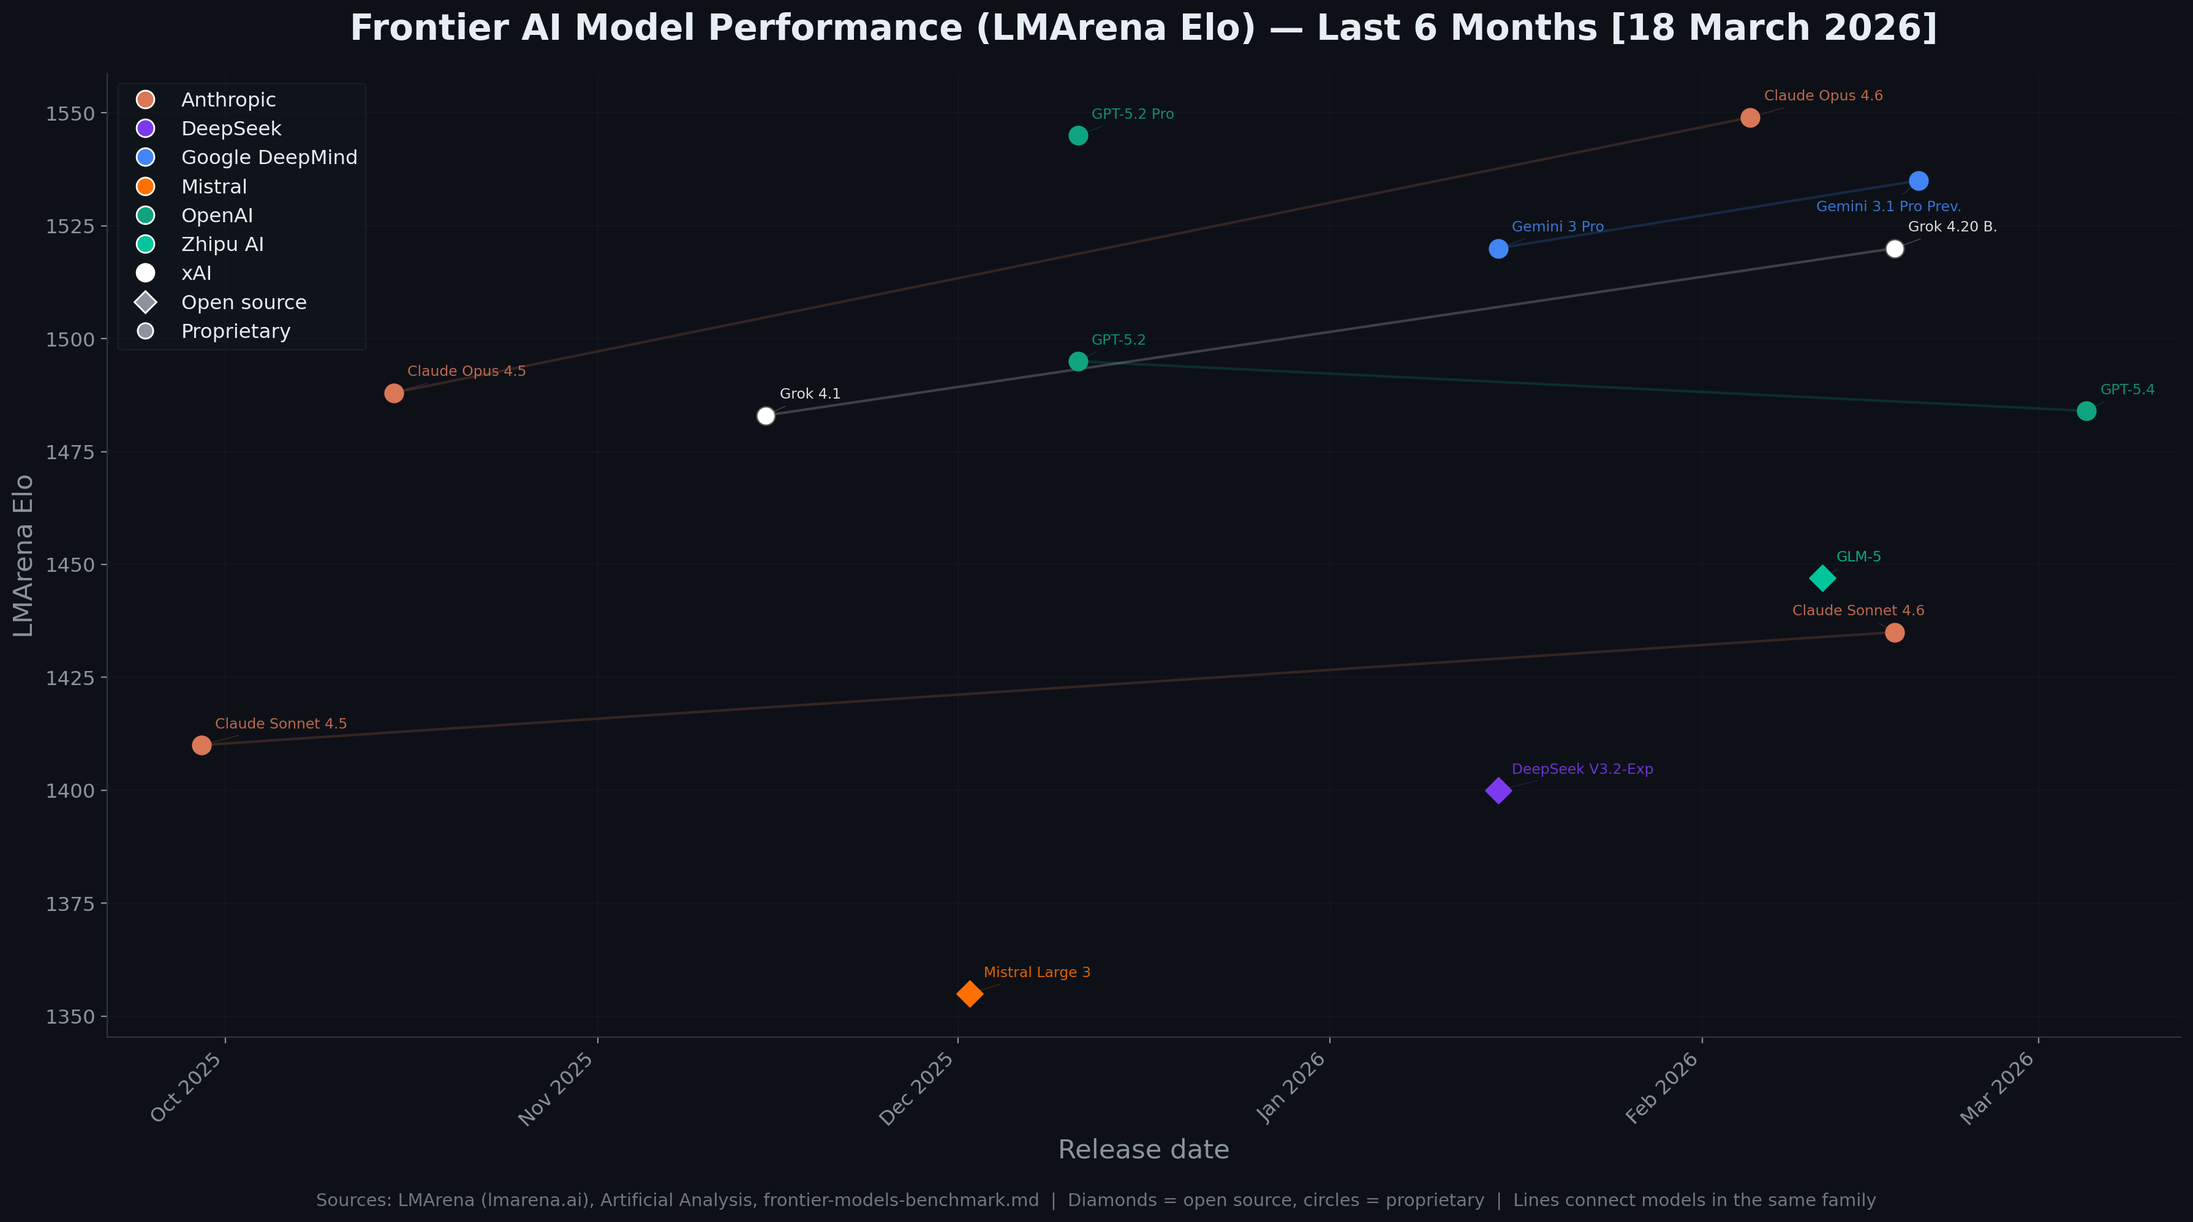
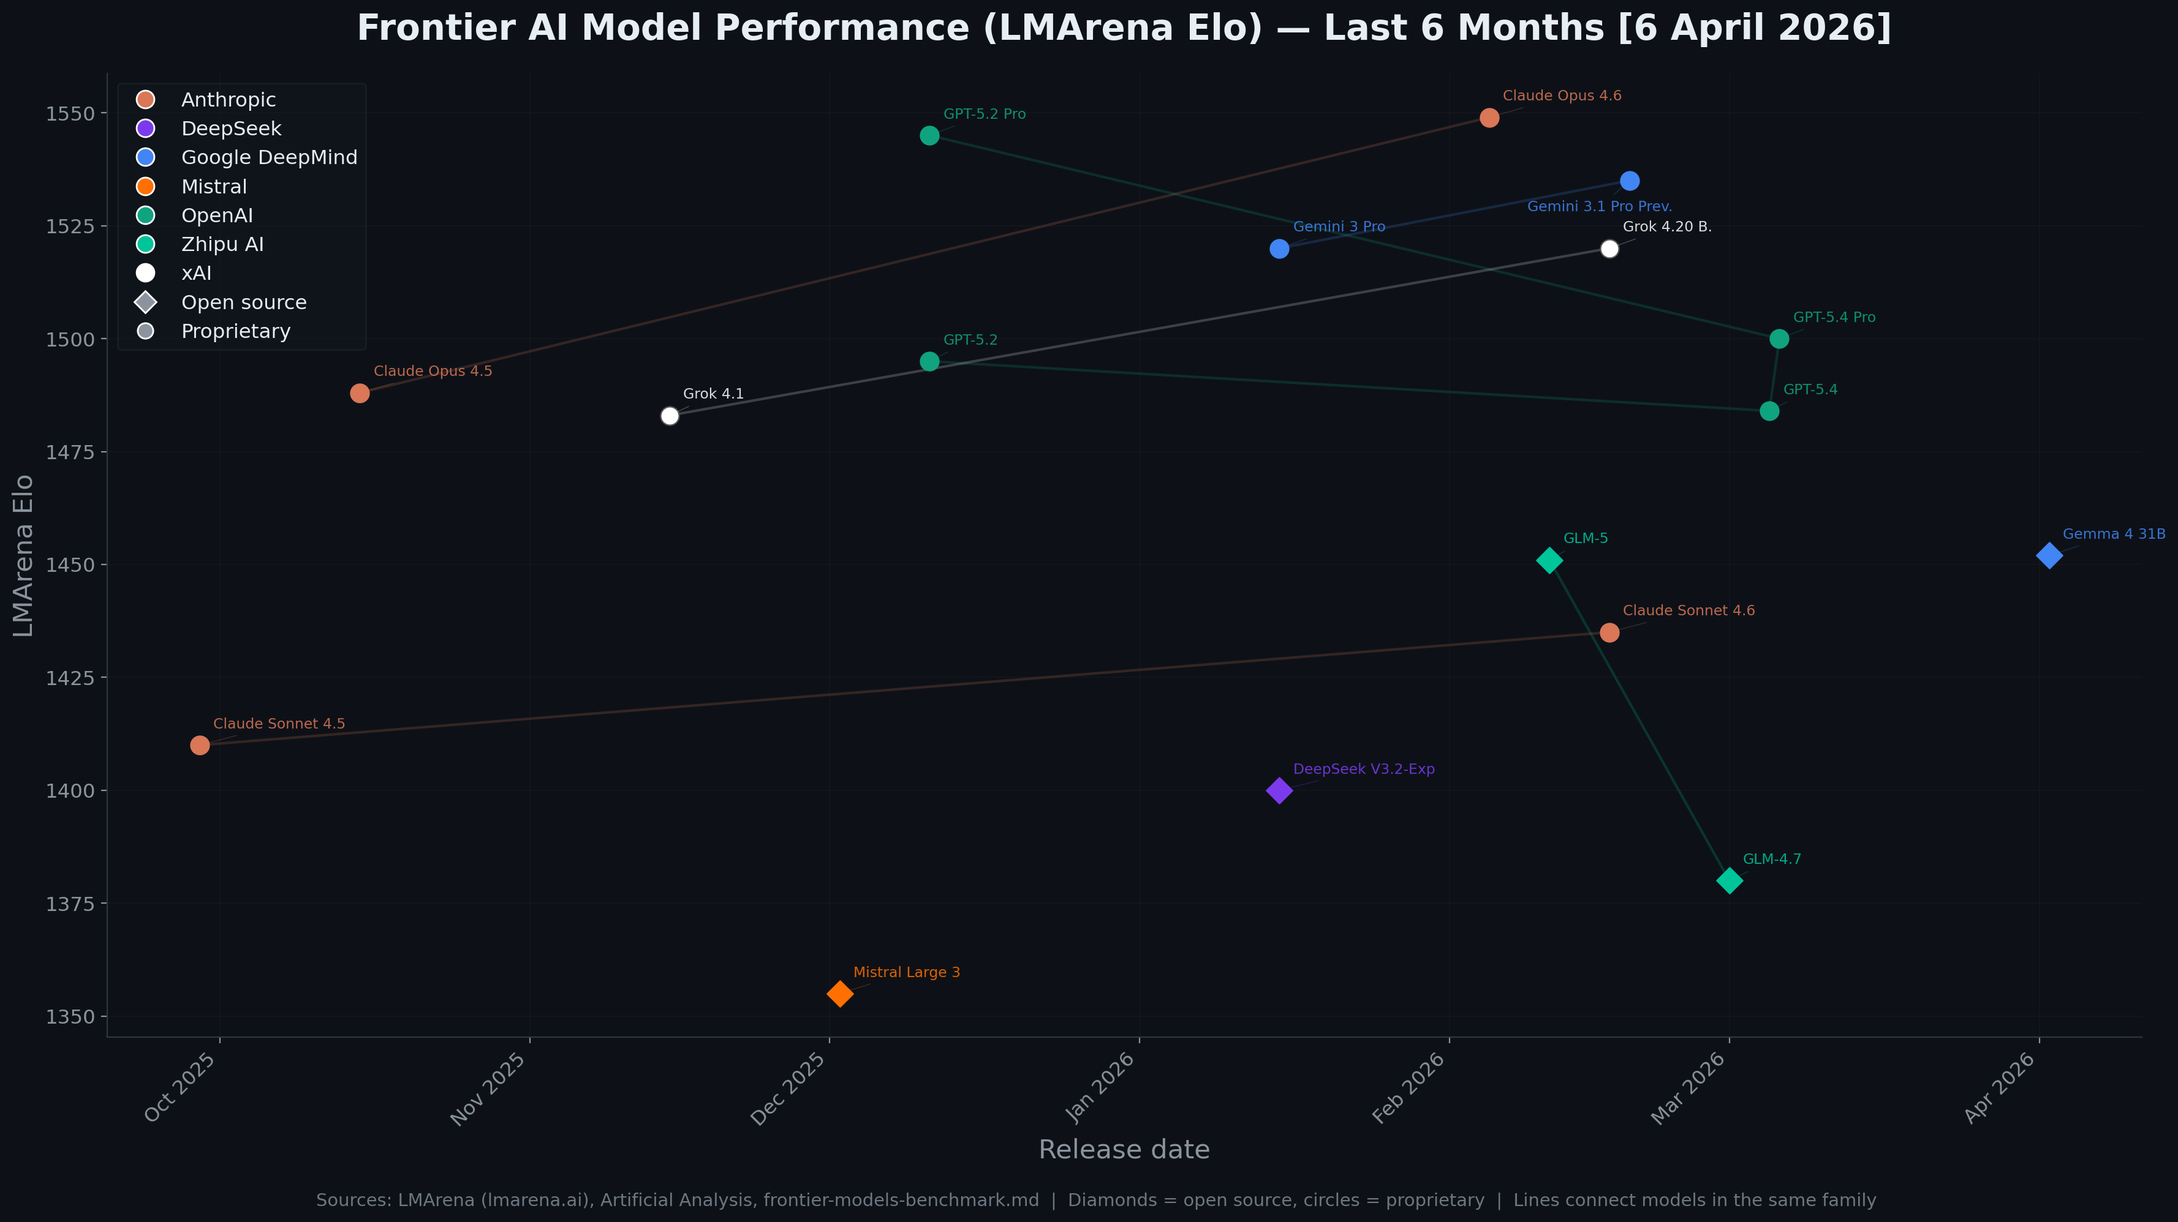
Update frontier models benchmark to April 2026
Add GPT-5.4 Pro (SWE-bench Verified 86%, BenchLM #1), GLM-4.7
(coding-focused with thinking), Gemma 4 31B (Apache 2.0, LMArena
~1452). Update GLM-5 Elo to 1451. Regenerate Elo timeline plots.

diff --git a/frontier-models-benchmark.md b/frontier-models-benchmark.md
@@ -3,8 +3,8 @@
 | Field | Value |
 |-------|-------|
 | Created | 2026-03-17 |
-| Last Updated | 2026-03-17 |
-| Version | 2.1 |
+| Last Updated | 2026-04-06 |
+| Version | 2.2 |
 
 ---
 
@@ -22,7 +22,7 @@
 
 ## Overview
 
-This article ranks current best-in-class frontier AI models across nine capability domains, synthesised from live benchmark data pulled on 17 March 2026. Sources include LMArena (Chatbot Arena), SWE-Bench Verified/Pro, Terminal-Bench 2.0/Hard, Aider Polyglot, BFCL V4, MMMU-Pro, Artificial Analysis, and the OpenVLM/Open ASR leaderboards.
+This article ranks current best-in-class frontier AI models across nine capability domains, synthesised from live benchmark data pulled on 6 April 2026. Sources include LMArena (Arena AI), SWE-Bench Verified/Pro, Terminal-Bench 2.0/Hard, Aider Polyglot, BFCL V4, MMMU-Pro, Artificial Analysis, BenchLM, and the OpenVLM/Open ASR leaderboards.
 
 Each model entry includes origin, release date, model lineage, licence, parameter count, context window, and throughput data where known.
 
@@ -38,14 +38,15 @@ Ranked by LMArena (Chatbot Arena) Elo ratings from human blind-preference votes,
 | 4 | **Gemini 3.1 Pro Preview** | Google DeepMind | 2026-02-19 | Gemini 3 Pro | Incumbent | Proprietary | Undisclosed (MoE) | 1M | ~110 | ~0.9 s |
 | 5 | **Grok 4.20 Beta** | xAI | 2026-02-17 | Grok 4.1 | Incumbent | Proprietary | ~500B (MoE, "small" variant) | 256K-2M | Unknown | Unknown |
 | 6 | **Gemini 3 Pro** | Google DeepMind | 2026-01 | Gemini 2.5 Pro | Gemini 3.1 Pro | Proprietary | Undisclosed (MoE) | 1M | ~80+ | ~1-3 s |
-| 7 | **GPT-5.4 High** | OpenAI | 2026-03-05 | GPT-5.3 Codex | Incumbent | Proprietary | Undisclosed | 1M | ~187 | ~1.2 s |
-| 8 | **GPT-5.4** | OpenAI | 2026-03-05 | GPT-5.3 Codex | Incumbent | Proprietary | Undisclosed | 1M | ~187 | ~1.2 s |
+| 7 | **GPT-5.4 Pro** | OpenAI | 2026-03-06 | GPT-5.3 Codex | Incumbent | Proprietary | Undisclosed | 1M | ~187 | ~1.2 s |
+| 8 | **GPT-5.4 High** | OpenAI | 2026-03-05 | GPT-5.3 Codex | GPT-5.4 Pro | Proprietary | Undisclosed | 1M | ~187 | ~1.2 s |
+| 9 | **GPT-5.4** | OpenAI | 2026-03-05 | GPT-5.3 Codex | GPT-5.4 Pro | Proprietary | Undisclosed | 1M | ~187 | ~1.2 s |
 
 **Key observations:**
-- Anthropic holds the top three Arena spots. Claude Opus 4.6 leads at Elo 1549 — roughly +30 over the nearest non-Anthropic model.
-- GPT-5.4 (released 5 March 2026) is the newest frontier model; Arena Elo is still stabilising but early data places it in the 1483-1485 range.
-- Grok 4.20 uses a novel 4-agent parallel architecture. The current release is a 500B "small" variant; the full model is still training. Provisional Arena Elo of 1505-1535 could reshuffle the top 5.
-- GLM-5 (Zhipu AI, Elo 1447) is the highest-ranked open-source model — see the [Open Source](#open-source) section.
+- Anthropic holds the top three Arena spots. Claude Opus 4.6 (thinking) leads at Elo ~1500 (BenchLM April 2026 snapshot) — roughly +17 over the nearest non-Anthropic model.
+- GPT-5.4 Pro (released 6 March 2026) is the newest frontier model and leads BenchLM's overall composite at 92/100 (#1 of 103 models evaluated). Arena Elo is still stabilising.
+- Grok 4.1 Thinking (codename: quasarflux) now holds #1 on the LMArena text-capability leaderboard at Elo 1483 (confirmed April 4, 2026). Grok 4.20's full model is still training; provisional Arena Elo of 1505-1535.
+- GLM-5 (Zhipu AI, Elo 1451) is the highest-ranked open-source model — see the [Open Source](#open-source) section.
 
 ## Agentic Coding
 
@@ -53,32 +54,37 @@ Composite ranking across SWE-Bench Verified, SWE-Bench Pro, Terminal-Bench 2.0, 
 
 | # | Model | Origin | Released | Predecessor | Successor | Licence | Params | Context | tok/s | TTFT |
 |---|-------|--------|----------|-------------|-----------|---------|--------|---------|-------|------|
-| 1 | **GPT-5.4** | OpenAI | 2026-03-05 | GPT-5.3 Codex | Incumbent | Proprietary | Undisclosed | 1M | ~187 | ~1.2 s |
-| 2 | **Claude Opus 4.6** | Anthropic | 2026-02-05 | Claude Opus 4.5 | Incumbent | Proprietary | Undisclosed | 1M (beta) | ~50-60 | ~2-5 s |
-| 3 | **Gemini 3.1 Pro** | Google DeepMind | 2026-02-19 | Gemini 3 Pro | Incumbent | Proprietary | Undisclosed (MoE) | 1M | ~110 | ~0.9 s |
-| 4 | **GPT-5.3 Codex** | OpenAI | 2026-02-05 | GPT-5.2 Codex | GPT-5.4 | Proprietary | Undisclosed | 400K | Unknown | Unknown |
+| 1 | **GPT-5.4 Pro** | OpenAI | 2026-03-06 | GPT-5.3 Codex | Incumbent | Proprietary | Undisclosed | 1M | ~187 | ~1.2 s |
+| 2 | **GPT-5.4** | OpenAI | 2026-03-05 | GPT-5.3 Codex | GPT-5.4 Pro | Proprietary | Undisclosed | 1M | ~187 | ~1.2 s |
+| 3 | **Claude Opus 4.6** | Anthropic | 2026-02-05 | Claude Opus 4.5 | Incumbent | Proprietary | Undisclosed | 1M (beta) | ~50-60 | ~2-5 s |
+| 4 | **Gemini 3.1 Pro** | Google DeepMind | 2026-02-19 | Gemini 3 Pro | Incumbent | Proprietary | Undisclosed (MoE) | 1M | ~110 | ~0.9 s |
 | 5 | **Claude Sonnet 4.6** | Anthropic | 2026-02-17 | Claude Sonnet 4.5 | Incumbent | Proprietary | Undisclosed | 1M (beta) | ~80-100 | ~1-3 s |
-| 6 | **Claude Opus 4.5** | Anthropic | 2025-10 | Claude Opus 4 | Claude Opus 4.6 | Proprietary | Undisclosed | 200K | ~50-60 | ~2-5 s |
+| 6 | **GPT-5.3 Codex** | OpenAI | 2026-02-05 | GPT-5.2 Codex | GPT-5.4 | Proprietary | Undisclosed | 400K | Unknown | Unknown |
 | 7 | **MiniMax M2.5** | MiniMax | Q1 2026 | MiniMax M2.1 | Incumbent | Open weights | 230B (MoE) | 204K | ~100 | Unknown |
-| 8 | **DeepSeek V3.2-Exp (Reasoner)** | DeepSeek | Q1 2026 | DeepSeek V3.1 | Incumbent | Open-source | 685B / 37B active (MoE) | 128K | Unknown | Unknown |
+| 8 | **GLM-4.7** | Zhipu AI | Q1 2026 | GLM-4.6 | Incumbent | Open-source | Undisclosed (MoE) | 128K | Unknown | Unknown |
+| 9 | **DeepSeek V3.2-Exp (Reasoner)** | DeepSeek | Q1 2026 | DeepSeek V3.1 | Incumbent | Open-source | 685B / 37B active (MoE) | 128K | Unknown | Unknown |
 
 **Benchmark scores (where available):**
 
 | Model | SWE-Bench Verified | SWE-Bench Pro | Terminal-Bench 2.0 | Terminal-Bench Hard | Aider Polyglot |
 |-------|-------------------|--------------|--------------------|--------------------|---------------|
+| GPT-5.4 Pro | 86.0% | — | — | — | — |
 | GPT-5.4 | — | 57.7% | — | 58% | — |
 | Claude Opus 4.6 | 80.8% | — | 74.7% | 53% | — |
 | Gemini 3.1 Pro | 80.6% | — | 78.4% | 54% | — |
-| GPT-5.3 Codex | — | 56.8% | 77.3% | 53% | — |
 | Claude Sonnet 4.6 | 79.6% | — | — | 49% | — |
+| GPT-5.3 Codex | — | 56.8% | 77.3% | 53% | — |
 | Claude Opus 4.5 | 80.9% | 45.9% | — | — | — |
 | MiniMax M2.5 | 80.2% | — | — | — | — |
+| GLM-4.7 | 73.8% | — | — | — | — |
 | DeepSeek V3.2-Exp | 73.0% | — | — | — | 74.2% |
 
 **Key observations:**
-- The top 5 models on SWE-Bench Verified are separated by just 1.3 points (79.6–80.9%). At this level, the agent scaffold/harness matters more than the model itself — scaffold choice causes a 22-point swing vs ~1 point from model selection.
+- **GPT-5.4 Pro is the new SWE-bench Verified leader at 86.0%** — a 5-point jump over the previous cluster of ~80-81% models. This is the first model to clearly break away from the pack on this benchmark.
+- The remaining top models on SWE-Bench Verified are still tightly clustered (79.6–80.9%). At this level, the agent scaffold/harness matters more than the model itself — scaffold choice causes a 22-point swing vs ~1 point from model selection.
 - GPT-5.4 leads on the harder benchmarks (SWE-Bench Pro 57.7%, Terminal-Bench Hard 58%) which test longer, more complex agentic tasks.
-- MiniMax M2.5 (80.2% SWE-Bench Verified) is the top open-weights coding model, ahead of GPT-5.2.
+- GLM-4.7 (Zhipu AI, 73.8% SWE-Bench Verified) is a new open-source coding contender with thinking capabilities, scoring 95.7% on AIME 2025 and 42.8% on Humanity's Last Exam.
+- MiniMax M2.5 (80.2% SWE-Bench Verified) remains the top open-weights model on that benchmark.
 - DeepSeek V3.2-Exp achieves 74.2% on Aider Polyglot at $1.30/run — roughly 22x cheaper than GPT-5.
 
 ## Tool Use
@@ -191,20 +197,23 @@ The top open-source models overall, ranked by a composite of Chatbot Arena Elo, 
 
 | # | Model | Origin | Released | Predecessor | Successor | Params (total / active) | Architecture | Context | Licence | Key Scores |
 |---|-------|--------|----------|-------------|-----------|------------------------|-------------|---------|---------|------------|
-| 1 | **GLM-5** | Zhipu AI | 2026-02-11 | GLM-4.5 (355B) | Incumbent | 744B / ~40B | MoE | 128K | Apache 2.0 | Arena Elo 1447, Quality Index 49.6, MMLU-Pro 89.7%, HumanEval 92.1% |
+| 1 | **GLM-5** | Zhipu AI | 2026-02-11 | GLM-4.5 (355B) | Incumbent | 744B / ~40B | MoE | 128K | Apache 2.0 | Arena Elo 1451, Quality Index 49.6, MMLU-Pro 89.7%, HumanEval 92.1% |
 | 2 | **DeepSeek V3.2** | DeepSeek | 2026-02-15 | DeepSeek V3.1 | Incumbent | 685B / 37B | MoE (DeepSeekMoE + MLA) | 128K | DeepSeek Licence | Quality Index 41.2, LiveCodeBench 86-90%, AIME 92%, SWE-Bench 72.8% |
 | 3 | **Kimi K2.5** | Moonshot AI | Q1 2026 | Kimi K2 | Incumbent | ~1T / undisclosed | MoE | 128K | Open weights (MIT) | Quality Index 46.7, LiveCodeBench 85%, AIME 96%, Tau2-bench #1 tool-use |
 | 4 | **MiniMax M2.5** | MiniMax | Q1 2026 | MiniMax M2.1 | Incumbent | 230B / undisclosed | MoE | 204K | Open weights | Quality Index 42.0, SWE-Bench Verified 80.2% (#1 open-weights coding) |
 | 5 | **MiMo-V2-Flash** | Xiaomi | 2025-12-16 | MiMo-V1 | Incumbent | 309B / 15B | MoE (hybrid attn + MTP) | 128K | Apache 2.0 | LiveCodeBench 87%, AIME 96%, ~150 tok/s |
 | 6 | **Qwen3-235B-A22B** | Alibaba | 2025-04-29 | Qwen 2.5-72B | Qwen 3.5 | 235B / 22B | MoE | 128K | Apache 2.0 | Hybrid thinking (fast/deep), 119 languages |
 | 7 | **Llama 4 Maverick** | Meta | 2025-04-05 | Llama 3.3 70B | Llama 4 Behemoth (pending) | 400B / 17B (128 experts) | MoE | 10M | Llama Community | Natively multimodal |
-| 8 | **Mistral Large 3** | Mistral AI | 2025-12-02 | Mistral Large 2 (123B) | Incumbent | 675B / 41B | MoE | 256K | Apache 2.0 | Multimodal, strong European compliance |
+| 8 | **Gemma 4 31B** | Google DeepMind | 2026-04-02 | Gemma 3 27B | Incumbent | 31B | Dense | 256K | Apache 2.0 | Arena Elo ~1452 (#3 open), multimodal (text/image/video/audio), native function calling |
+| 9 | **Mistral Large 3** | Mistral AI | 2025-12-02 | Mistral Large 2 (123B) | Incumbent | 675B / 41B | MoE | 256K | Apache 2.0 | Multimodal, strong European compliance |
 
 **Key observations:**
 - GLM-5 (Zhipu AI, 744B MoE) unseated DeepSeek in February 2026 as the top open-source model. Native support for 14+ Asian languages including Tamil, Hindi, and Telugu.
-- Every top open-source model uses MoE architecture. Dense models have been pushed out of the frontier tier.
+- **Gemma 4** (Google DeepMind, April 2, 2026) is the biggest new open-source entry. The 31B dense model ranks #3 among all open models on Arena AI's text leaderboard (Elo ~1452). Apache 2.0 licence — a significant shift from Gemma 3's more restrictive Gemma Licence. Four sizes: E2B (2.3B active), E4B (4B active), 26B MoE (4B active), 31B dense.
+- **GLM-4.7** (Zhipu AI) is a notable new coding-focused release with thinking capabilities: AIME 2025 95.7%, SWE-bench Verified 73.8%, HLE 42.8% (+12.4% over GLM-4.6).
+- Every top open-source model at the frontier tier uses MoE architecture (Gemma 4 31B dense is the exception, ranking via raw parameter density).
 - Apache 2.0 dominates licensing, with Meta's Llama Community Licence the main exception.
-- The gap to proprietary models continues to narrow: GLM-5 at Arena Elo 1447 vs Claude Opus 4.6 at 1549 — a ~100 Elo gap, down from ~200+ a year ago.
+- The gap to proprietary models continues to narrow: GLM-5 at Arena Elo 1451 vs Claude Opus 4.6 (thinking) at ~1500 — a ~50 Elo gap, down from ~200+ a year ago.
 
 ## Best Models <= 20B Parameters
 
@@ -215,15 +224,18 @@ Models with 20B or fewer total parameters (or, for MoE models, 20B or fewer acti
 | 1 | **Qwen3.5-9B (Reasoning)** | Alibaba | Q1 2026 | Qwen3-8B | Incumbent | 9B | 9B (dense) | 128K | Apache 2.0 | Intelligence Index 32 — most intelligent model under 10B |
 | 2 | **Qwen3-14B** | Alibaba | 2025-04-29 | Qwen 2.5-14B | Qwen3.5-14B | 14.8B | 14.8B (dense) | 131K | Apache 2.0 | 119 languages, hybrid thinking |
 | 3 | **Mistral 3 (Ministral) 14B** | Mistral AI | 2025-12-02 | Mistral Small 3.1 | Incumbent | 14B | 14B (dense) | 256K | Apache 2.0 | Multimodal (vision), reasoning variant available |
-| 4 | **Gemma 3 27B** | Google | 2025-03-12 | Gemma 2 27B | Incumbent | 27B | 27B (dense) | 128K | Gemma Licence | On-device ready, reduced KV-cache, multimodal |
+| 4 | **Gemma 4 26B (MoE)** | Google DeepMind | 2026-04-02 | Gemma 3 27B | Incumbent | 26B (MoE) | 4B | 256K | Apache 2.0 | Multimodal (text/image/video/audio), function calling, only 4B active params |
 | 5 | **Llama 4 Scout** | Meta | 2025-04-05 | Llama 3.2-3B | Incumbent | 109B (16 experts) | 17B | 10M | Llama Community | Natively multimodal, fits single H100 |
 | 6 | **Phi-4-mini** | Microsoft | 2025-02-27 | Phi-3.5-mini | Phi-4-multimodal | 3.8B | 3.8B (dense) | 128K | MIT | Matches models 2x its size on maths/code, function calling |
 | 7 | **Mistral 3 (Ministral) 8B** | Mistral AI | 2025-12-02 | Mistral Nemo 12B | Incumbent | 8B | 8B (dense) | 256K | Apache 2.0 | Multimodal vision, distilled from Mistral Small 3.1 |
-| 8 | **Qwen3.5-4B (Reasoning)** | Alibaba | Q1 2026 | Qwen3-4B | Incumbent | 4B | 4B (dense) | 32K | Apache 2.0 | Intelligence Index 27 — most intelligent model under 5B, rivals Qwen2.5-72B on some tasks |
+| 8 | **Gemma 4 E4B** | Google DeepMind | 2026-04-02 | Gemma 3 4B | Incumbent | 4B | 4B (dense) | 256K | Apache 2.0 | Multimodal (text/image/video/audio), function calling, 256K context in a 4B model |
+| 9 | **Qwen3.5-4B (Reasoning)** | Alibaba | Q1 2026 | Qwen3-4B | Incumbent | 4B | 4B (dense) | 32K | Apache 2.0 | Intelligence Index 27 — most intelligent model under 5B, rivals Qwen2.5-72B on some tasks |
+| 10 | **Gemma 4 E2B** | Google DeepMind | 2026-04-02 | Gemma 3 2B | Incumbent | 2.3B | 2.3B (dense) | 256K | Apache 2.0 | Smallest Gemma 4, multimodal, 256K context, mobile/edge deployment |
 
 **Key observations:**
-- Qwen dominates the small-model tier. Qwen3.5-9B achieves Intelligence Index 32, and the 4B variant (Index 27) rivals models 18x its size on select benchmarks.
-- All top small models are dense (not MoE). Dense architectures remain more efficient at this scale for single-device deployment.
+- Qwen dominates the small-model tier on reasoning. Qwen3.5-9B achieves Intelligence Index 32, and the 4B variant (Index 27) rivals models 18x its size on select benchmarks.
+- **Gemma 4** (April 2026) brings three entries to this tier: the 26B MoE (only 4B active — remarkably efficient), the E4B dense, and the E2B dense. All feature 256K context, multimodal capabilities, native function calling, and Apache 2.0 licensing. The MoE variant is particularly notable for fitting frontier-class capabilities into 4B active parameters.
+- All top small models are dense (not MoE), with the exception of Gemma 4 26B and Llama 4 Scout.
 - All are open-source with permissive licences (Apache 2.0 or MIT).
 - Hardware: 7-14B dense models fit in 14-28 GB VRAM at FP16, or 4-8 GB quantised (Q4). A consumer RTX 4090 (24 GB) handles all of these.
 
@@ -280,7 +292,7 @@ Output token generation speed measured by Artificial Analysis (tested every 8 ho
 ## References
 
 ### Leaderboards and Benchmarks
-- LMArena (Chatbot Arena) — https://lmarena.ai
+- Arena AI (formerly LMArena / Chatbot Arena) — https://arena.ai/leaderboard
 - SWE-Bench Verified / Pro — https://www.swebench.com
 - Terminal-Bench 2.0 / Hard — https://www.marc0.dev/en/leaderboard
 - Aider Polyglot Leaderboard — https://aider.chat/docs/leaderboards/
@@ -289,6 +301,7 @@ Output token generation speed measured by Artificial Analysis (tested every 8 ho
 - OpenVLM Leaderboard — https://huggingface.co/spaces/opencompass/open_vlm_leaderboard
 - Open ASR Leaderboard — https://huggingface.co/spaces/hf-audio/open_asr_leaderboard
 - Artificial Analysis LLM Leaderboard — https://artificialanalysis.ai/leaderboards/models
+- BenchLM — https://benchlm.ai
 - Awesome Agents Speed Leaderboard — https://awesomeagents.ai/leaderboards/ai-speed-latency-leaderboard/
 - LiveBench — https://livebench.ai
 
@@ -308,6 +321,9 @@ Output token generation speed measured by Artificial Analysis (tested every 8 ho
 - Mistral Large 3 — https://docs.mistral.ai/models/mistral-large-3-25-12
 - Phi-4-mini — https://arxiv.org/abs/2503.01743
 - Gemma 3 — https://arxiv.org/abs/2503.19786
+- Gemma 4 — https://deepmind.google/models/gemma/gemma-4/
+- GLM-4.7 — https://z.ai/blog/glm-4.7
+- GPT-5.4 Pro — https://benchlm.ai/models/gpt-5-4-pro
 - Mercury 2 — https://rits.shanghai.nyu.edu/ai/inception-launches-mercury-2-diffusion-powered-reasoning-at-1000-tokens-per-second/
 
 ### Audio and Voice Models
@@ -328,3 +344,7 @@ Output token generation speed measured by Artificial Analysis (tested every 8 ho
 - MorphLLM Best AI for Coding — https://www.morphllm.com/best-ai-model-for-coding
 - WhatLLM Vision Models — https://whatllm.org/blog/best-vision-models-january-2026
 - Roboflow Best Multimodal Models — https://blog.roboflow.com/best-multimodal-models/
+- BuildFastWithAI Best AI Models April 2026 — https://www.buildfastwithai.com/blogs/best-ai-models-april-2026
+- Grok 4.1 LMArena dominance (April 2026) — https://www.modezone.com/grok-4-1-dominates-the-lmarena-leaderboard
+- BenchLM LLM Leaderboard History — https://benchlm.ai/llm-leaderboard-history
+- Lushbinary Gemma 4 Developer Guide — https://lushbinary.com/blog/gemma-4-developer-guide-benchmarks-architecture-local-deployment-2026/
